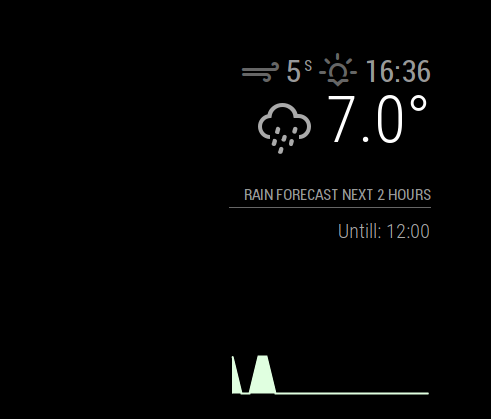
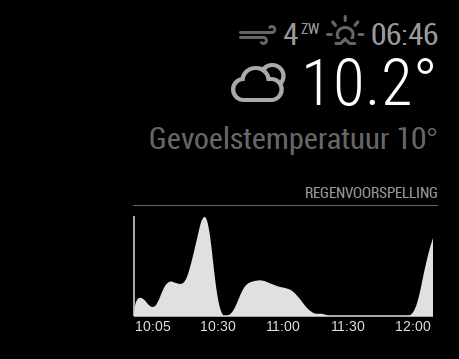
release

Changed region(s): [[0.305, 0.0306, 0.976, 0.5822], [0.2745, 0.6128, 0.9455, 0.9499]]

diff --git a/MMM-rainfc.css b/MMM-rainfc.css
@@ -12,7 +12,7 @@
 }
 
 .MMM-rainfc svg.graph .grid {
-  stroke: #e0ffe0;
+  stroke: #e0e0e0;
   //stroke-dasharray: 1 2;
   stroke-width: 1;
 }
@@ -22,7 +22,7 @@
   stroke-width: 3;
 }
 .MMM-rainfc svg.graph .first_set {
-  fill: #e0ffe0;
+  fill: #e0e0e0;
 }
 
 .MMM-rainfc svg.graph .surfaces {
@@ -41,7 +41,7 @@
 
 .MMM-rainfc svg.graph .labels.x-labels {
   text-anchor: middle;
-  fill: #e0ffe0;
+  fill: #e0e0e0;
 }
 
 .MMM-rainfc svg.graph .labels.y-labels {
